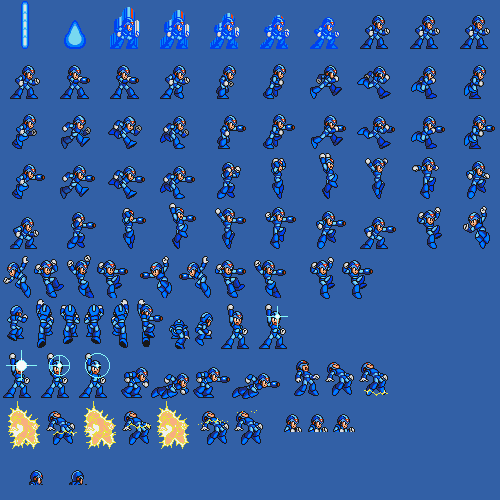
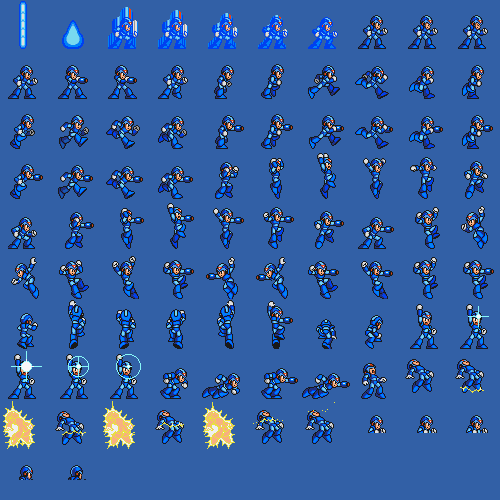
Add Damaged and Slide state

diff --git a/MegamanX3/MegamanX3/PlayerSlidingState.cpp b/MegamanX3/MegamanX3/PlayerSlidingState.cpp
@@ -1,0 +1,97 @@
+#include "pch.h"
+#include "PlayerSlidingState.h"
+#include "Engine.h"
+
+PlayerSlidingState::PlayerSlidingState(PlayerStateHandler * handler, Entity * entity) : PlayerState(handler, entity)
+{
+
+	sprite = new AnimatedSprite(15, 2.0f, false);
+	sprite->Initialize(Engine::GetEngine()->GetGraphics()->GetDevice(), "x",
+		73, 74, 10, 50, 50);
+}
+
+
+PlayerSlidingState::~PlayerSlidingState()
+{
+	if (handler->GetCurrentStateName() != PlayerStateHandler::StateName::Sliding) {
+		if (sprite) {
+			delete sprite;
+			sprite = nullptr;
+		}
+	}
+}
+
+void PlayerSlidingState::Load()
+{
+	entity->SetSprite(sprite);
+	if (entity->GetReverse()) {
+		acceleratorX = -30.0f;
+	}
+	else {
+		acceleratorX = 30.0f;
+	}
+	sprite->ResetFrame();
+}
+
+void PlayerSlidingState::Update()
+{	
+	entity->AddVelocityX(acceleratorX);
+	slidedDistance += abs(acceleratorX / 3.0f);
+	if (slidedDistance >= Define::MAX_SLIDE_DISTANCE) {
+		handler->ChangeState(PlayerStateHandler::Standing);
+		slidedDistance = 0;
+	}
+}
+
+void PlayerSlidingState::UpdateInput()
+{
+	Input *input = Engine::GetEngine()->GetInput();
+	if (input == nullptr) {
+		return;
+	}
+
+	if (input->IsKeyDown(DIK_J)) {
+		sprite->SetFrameRange(75, 76);
+	}
+	else {
+		sprite->SetFrameRange(73, 74);
+	}	
+}
+
+void PlayerSlidingState::OnCollision(Entity * impactor, Entity::SideCollisions side, Entity::CollisionReturn data)
+{
+	switch (side) {
+	case Entity::Left:
+	{
+		//va cham phia ben trai player
+		if (handler->GetMoveDirection() == PlayerStateHandler::MoveToLeft)
+		{
+			//day Player ra phia ben phai de cho player khong bi xuyen qua object
+			entity->AddPosition(data.RegionCollision.right - data.RegionCollision.left, 0);
+
+			handler->ChangeState(PlayerStateHandler::Standing);
+		}
+
+		return;
+	}
+
+	case Entity::Right:
+	{
+		//va cham phia ben phai player
+		if (handler->GetMoveDirection() == PlayerStateHandler::MoveToRight)
+		{
+			entity->AddPosition(-(data.RegionCollision.right - data.RegionCollision.left), 0);
+			handler->ChangeState(PlayerStateHandler::Standing);
+		}
+		return;
+	}
+	case Entity::Bottom: case Entity::BottomLeft: case Entity::BottomRight:
+	{
+		entity->AddPosition(0, -(data.RegionCollision.bottom - data.RegionCollision.top));
+
+		entity->SetVelocityY(0);
+
+		return;
+	}
+	}
+}

diff --git a/MegamanX3/MegamanX3/Player.cpp b/MegamanX3/MegamanX3/Player.cpp
@@ -4,6 +4,9 @@
 #include "PlayerRunningState.h"
 #include "PlayerJumpingState.h"
 #include "PlayerFallingState.h"
+#include "PlayerSlidingState.h"
+#include "PlayerDamagedState.h"
+
 #include <iostream>
 
 Player::Player()
@@ -12,6 +15,10 @@ Player::Player()
 	currentState = nullptr;
 	standingState = nullptr;
 	runningState = nullptr;
+	jumpingState = nullptr;
+	fallingState = nullptr;
+	slidingState = nullptr;
+	damagedState = nullptr;
 }
 
 
@@ -40,7 +47,8 @@ void Player::Initialize(LPDIRECT3DDEVICE9 device, Camera *camera)
 	runningState = new PlayerRunningState(this, entity);
 	jumpingState = new PlayerJumpingState(this, entity);
 	fallingState = new PlayerFallingState(this, entity);
-
+	slidingState = new PlayerSlidingState(this, entity);
+	damagedState = new PlayerDamagedState(this, entity);
 	ChangeState(Standing);
 	allowJump = true;
 }
@@ -55,6 +63,14 @@ void Player::Update()
 	Input *input = Engine::GetEngine()->GetInput();
 	if (input == nullptr) {
 		return;
+	}
+
+	if (input->IsKeyDown(DIK_H)) {
+		ChangeState(Damaged);
+	}
+
+	if (input->IsKeyDown(DIK_Z)) {
+		ChangeState(Sliding);
 	}
 
 	if (input->IsKeyDown(DIK_SPACE)) {
@@ -112,6 +128,14 @@ void Player::ChangeState(PlayerStateHandler::StateName stateName) {
 	case Falling:
 		currentState = fallingState;
 		currentStateName = Falling;
+		break;
+	case Sliding:
+		currentState = slidingState;
+		currentStateName = Sliding;
+		break;
+	case Damaged:
+		currentState = damagedState;
+		currentStateName = Damaged;
 		break;
 	}
 	currentState->Load();

diff --git a/MegamanX3/MegamanX3/PlayerDamagedState.cpp b/MegamanX3/MegamanX3/PlayerDamagedState.cpp
@@ -1,0 +1,59 @@
+#include "pch.h"
+#include "PlayerDamagedState.h"
+
+
+#include "Engine.h"
+
+PlayerDamagedState::PlayerDamagedState(PlayerStateHandler *handler, Entity *entity) : PlayerState(handler, entity)
+{
+	sprite = new AnimatedSprite(15, 1.5, false);
+	sprite->Initialize(Engine::GetEngine()->GetGraphics()->GetDevice(), "x",
+		77, 85, 10, 50, 50);
+}
+
+
+PlayerDamagedState::~PlayerDamagedState()
+{
+	if (handler->GetCurrentStateName() != PlayerStateHandler::StateName::Damaged) {
+		if (sprite) {
+			delete sprite;
+			sprite = nullptr;
+		}
+	}
+}
+
+void PlayerDamagedState::Load()
+{
+	entity->SetSprite(sprite);
+	sprite->ResetFrame();
+}
+
+void PlayerDamagedState::Update()
+{
+	if (sprite->IsFinished()) {
+		handler->ChangeState(PlayerStateHandler::StateName::Standing);
+	}
+}
+
+void PlayerDamagedState::UpdateInput()
+{
+	
+}
+
+void PlayerDamagedState::OnCollision(Entity * impactor, Entity::SideCollisions side, Entity::CollisionReturn data)
+{
+	switch (side)
+	{
+	case Entity::Bottom: case Entity::BottomLeft: case Entity::BottomRight:
+	{
+		entity->AddPosition(0, -(data.RegionCollision.bottom - data.RegionCollision.top));
+
+		entity->SetVelocityY(0);
+
+		return;
+	}
+	default:
+		break;
+	}
+}
+

diff --git a/MegamanX3/MegamanX3/PlayerJumpingState.cpp b/MegamanX3/MegamanX3/PlayerJumpingState.cpp
@@ -26,7 +26,7 @@ void PlayerJumpingState::Load()
 	entity->SetVelocityY(Define::PLAYER_MIN_JUMP_VELOCITY);
 	acceleratorX = 14.0f;
 	acceleratorY = 15.0f;
-	noPressed = false;
+	noPressed = true;
 	sprite->ResetFrame();
 }
 
@@ -126,7 +126,10 @@ void PlayerJumpingState::OnCollision(Entity * impactor, Entity::SideCollisions s
 	case Entity::BottomRight: case Entity::BottomLeft: case Entity::Bottom:
 	{
 		entity->AddPosition(0, -(data.RegionCollision.bottom - data.RegionCollision.top));
+		noPressed = false;
+		entity->SetVelocityY(0);
 	}
+
 
 	default:
 		break;

diff --git a/MegamanX3/MegamanX3/PlayerStateHandler.h b/MegamanX3/MegamanX3/PlayerStateHandler.h
@@ -7,6 +7,8 @@ namespace Define
 	const float PLAYER_MIN_JUMP_VELOCITY = -480.0f; //van toc nhay thap nhat
 	const float PLAYER_MAX_RUNNING_SPEED = 350.0f; //toc do chay nhanh nhat cua player
 	const float PLAYER_BOTTOM_RANGE_FALLING = 6.0f; // do dai va cham voi bottom neu nhu va cham bottom nho hon thi player se bi roi xuong
+	const float MAX_SLIDE_DISTANCE = 350.0f;
+
 }
 
 class PlayerStateHandler
@@ -16,7 +18,10 @@ public:
 		Standing,
 		Running,
 		Jumping,
-		Falling
+		Falling,
+		Sliding,
+		Damaged,
+		Climbing
 	};
 
 	enum MoveDirection

diff --git a/MegamanX3/MegamanX3/PlayerSlidingState.h b/MegamanX3/MegamanX3/PlayerSlidingState.h
@@ -1,0 +1,19 @@
+#pragma once
+#include "PlayerState.h"
+
+class PlayerSlidingState :
+	public PlayerState
+{
+public:
+	PlayerSlidingState(PlayerStateHandler *handler, Entity *entity);
+	~PlayerSlidingState();
+	void Load();
+	void Update();
+	void UpdateInput();
+	void OnCollision(Entity *impactor, Entity::SideCollisions side, Entity::CollisionReturn data);
+
+protected:
+	float acceleratorX;
+	float slidedDistance;
+};
+

diff --git a/MegamanX3/MegamanX3/PlayerDamagedState.h b/MegamanX3/MegamanX3/PlayerDamagedState.h
@@ -1,0 +1,14 @@
+#pragma once
+#include "PlayerState.h"
+class PlayerDamagedState :
+	public PlayerState
+{
+public:
+	PlayerDamagedState(PlayerStateHandler *handler, Entity *entity);
+	~PlayerDamagedState();
+	void Load();
+	void Update();
+	void UpdateInput();
+	void OnCollision(Entity *impactor, Entity::SideCollisions side, Entity::CollisionReturn data);
+};
+

diff --git a/MegamanX3/MegamanX3/AnimatedSprite.cpp b/MegamanX3/MegamanX3/AnimatedSprite.cpp
@@ -47,7 +47,7 @@ void AnimatedSprite::Update()
 					currentFrame = 0.0f;
 				}
 				else {
-					currentFrame = maxFrames;
+					currentFrame = maxFrames - 1;
 				}
 			}
 		}
@@ -84,4 +84,9 @@ void AnimatedSprite::ResetFrame()
 {
 	currentFrame = 0;
 	previousFrame = -1.0f;
+}
+
+bool AnimatedSprite::IsFinished()
+{
+	return currentFrame == maxFrames - 1;
 }

diff --git a/MegamanX3/MegamanX3/Map.cpp b/MegamanX3/MegamanX3/Map.cpp
@@ -23,7 +23,7 @@ void Map::Initialize(LPCTSTR filePath)
 
 	Entity *entity = EntityManager::GetInstance()->AddEntity();
 	entity->InitializeSprite(Engine::GetEngine()->GetGraphics()->GetDevice(),
-		"PlayerPaper", 56, 86, 0, 0);
+		"PlayerPaper", 500, 86, 0, 0);
 	//entity->SetScale(2, 2);
 	entity->SetPosition(SCREEN_WIDTH / 2, SCREEN_HEIGHT / 2 + 100);
 

diff --git a/MegamanX3/MegamanX3/Player.h b/MegamanX3/MegamanX3/Player.h
@@ -29,7 +29,7 @@ public:
 
 private:
 	PlayerState *currentState;
-	PlayerState *standingState, *runningState, *jumpingState, *fallingState;
+	PlayerState *standingState, *runningState, *jumpingState, *fallingState, *damagedState, *slidingState;
 	PlayerStateHandler::StateName currentStateName;
 	Entity *entity;
 	Camera *camera;

diff --git a/MegamanX3/MegamanX3/PlayerStandingState.cpp b/MegamanX3/MegamanX3/PlayerStandingState.cpp
@@ -5,7 +5,7 @@
 
 PlayerStandingState::PlayerStandingState(PlayerStateHandler *handler, Entity *entity) : PlayerState(handler, entity)
 {
-	sprite = new AnimatedSprite(15, 0.3);
+	sprite = new AnimatedSprite(15, 0.3, true);
 	sprite->Initialize(Engine::GetEngine()->GetGraphics()->GetDevice(), "x",
 		7, 9, 10, 50, 50);
 }

diff --git a/MegamanX3/MegamanX3/Entity.cpp b/MegamanX3/MegamanX3/Entity.cpp
@@ -101,6 +101,11 @@ float Entity::GetHeight()
 	return sprite->GetFrameHeight();
 }
 
+bool Entity::GetReverse()
+{
+	return this->reverse;
+}
+
 void Entity::SetSprite(Sprite * sprite)
 {
 	this->sprite = sprite;
